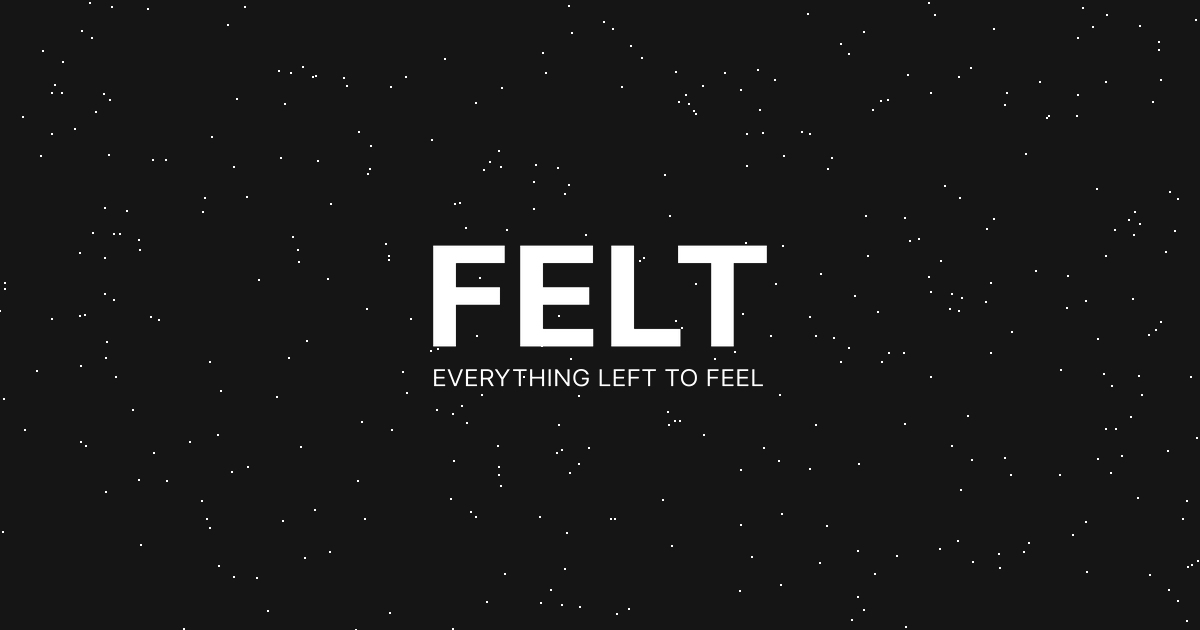
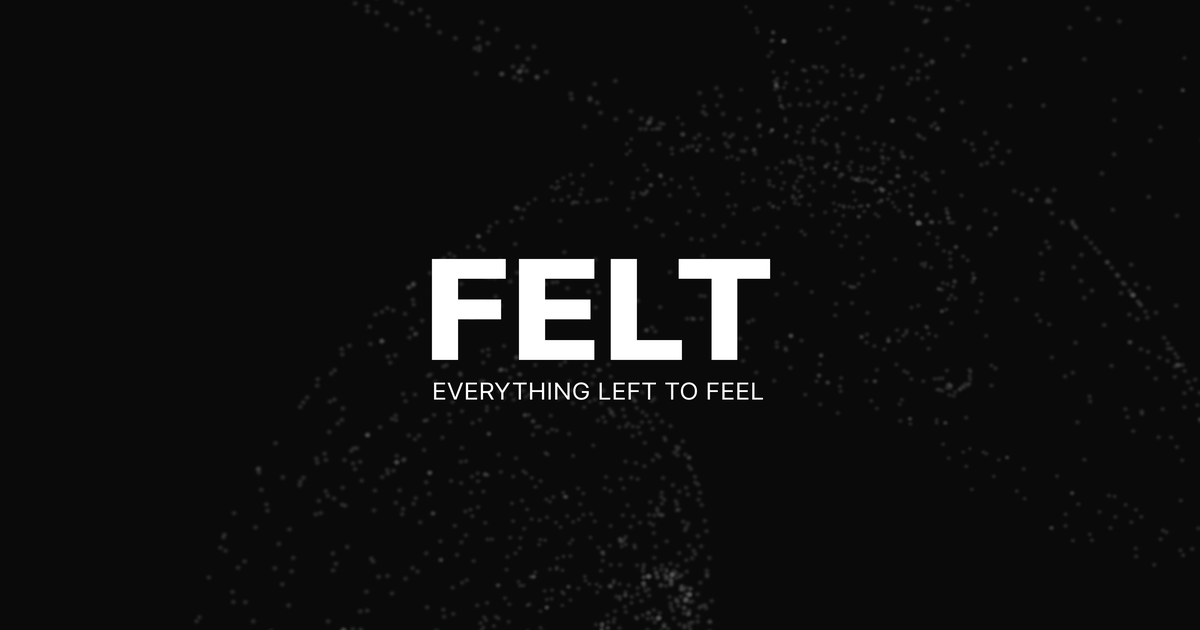
Final OG image and scroll lock for mobile

Changed region(s): [[0.3392, 0.3619, 0.6475, 0.6333], [0.555, 0.9048, 0.5858, 0.9651]]

diff --git a/index.html b/index.html
@@ -46,6 +46,8 @@
         html {
             overflow: hidden;
             height: 100%;
+            position: fixed;
+            width: 100%;
         }
 
         body {
@@ -108,7 +110,7 @@
             justify-content: space-between;
             padding: 2rem;
             max-width: 100vw;
-            overflow-x: hidden;
+            overflow: hidden;
             pointer-events: none;
         }
 
